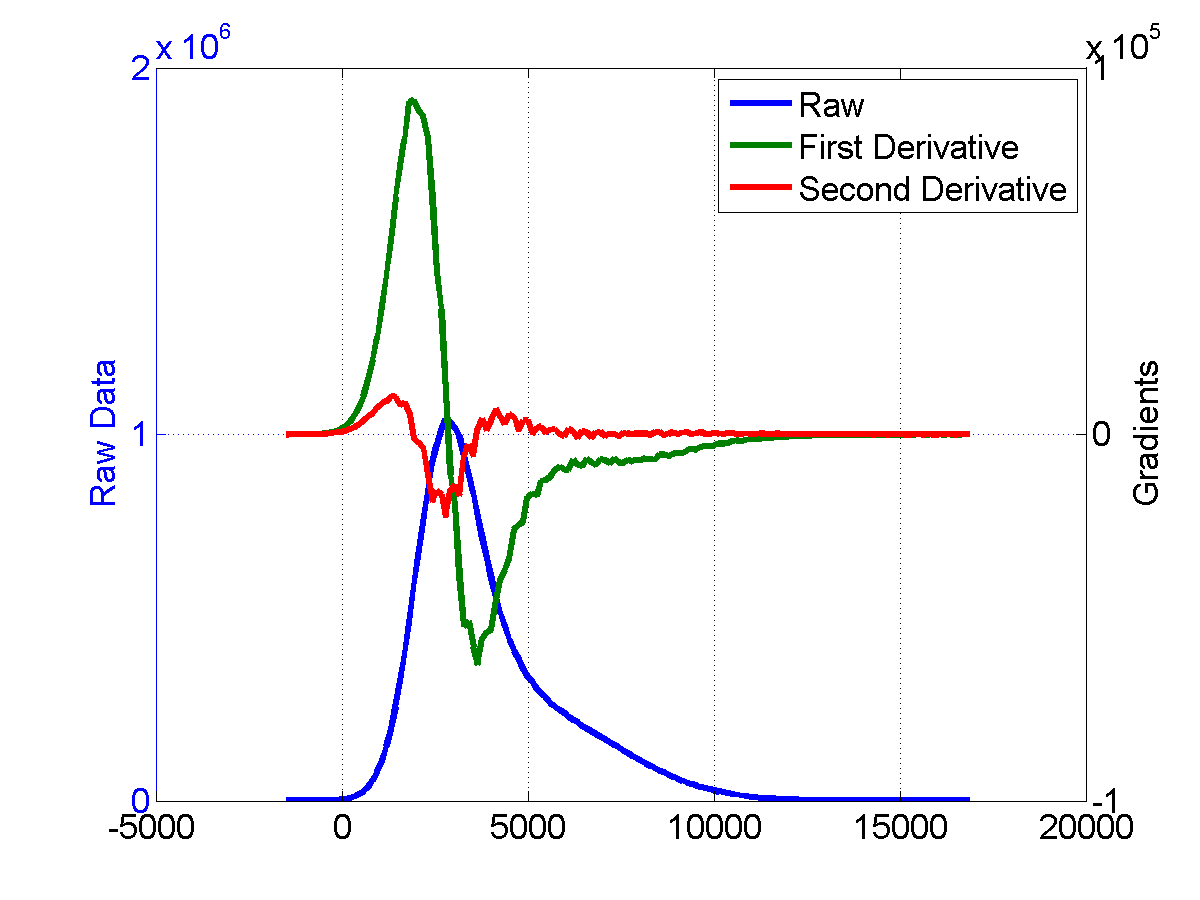
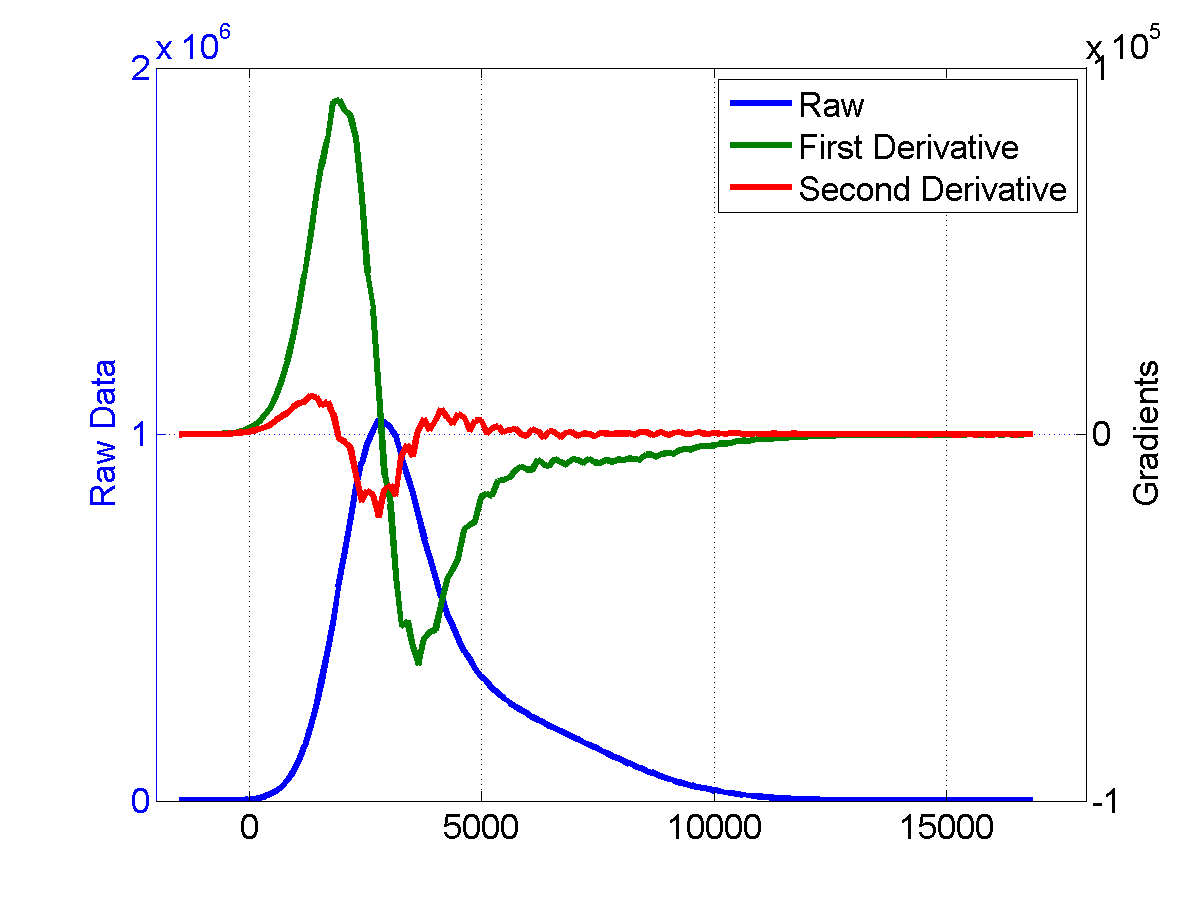
Correct Histogram
Correcting Histogram again

diff --git a/Initial_Image_Analysis.m b/Initial_Image_Analysis.m
@@ -82,8 +82,8 @@ s = savejson( [], data )
 fo = fopen( data.header, 'w'); fwrite( fo, s ); fclose(fo);
 
 %% Image Histogram
-
-[yy,xx] = hist( cropped(:),151);
+Ncropped = double(Ncropped);
+[yy,xx] = hist( Ncropped(:),151);
 
 [ax, h1,h2] = plotyy( xx, yy,... Plot distribution
     xx, [gradient(yy); gradient(gradient(yy))] ... Plot gradients of distribution
@@ -97,7 +97,10 @@ set( ax,'Fontsize',16);
 ylabel(ax(1), 'Raw Data');
 ylabel(ax(2), 'Gradients');
 saveas( gcf,'./assets/raw-image-stats.png');
-data.('images').('distribution') = struct( 'src', '/assets/raw-image-stats.png', 'description', 'This distribution of pixels values and their gradients.' )
+data.('images').('distribution') = struct( 'src', '/assets/Nraw-image-stats.png', 'description', 'This distribution of pixels values and their gradients.' )
+s = savejson( [], data )
+fo = fopen( data.header, 'w'); fwrite( fo, s ); fclose(fo);
+%% Peak fitting
 figure
 [yy,xx] = hist( cropped(:),151)
 [ p,e ]= peakfit( [xx;yy], 0,0,2,1 );
